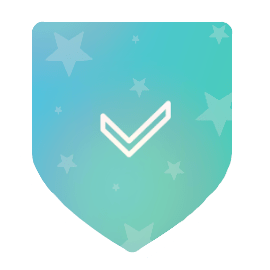
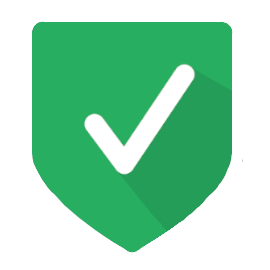
Added second badge. closes #71

diff --git a/resources/ts/user/components/Profile/BadgesSection.vue b/resources/ts/user/components/Profile/BadgesSection.vue
@@ -15,7 +15,12 @@ const badges = ref<BadgesSection[]>([
         tip: 'User verified achievement',
         badge: 'verified',
         show: !!user.email_verified_at,
-    }
+    },
+    {
+        tip: 'User submitted 5 comments',
+        badge: 'commentator',
+        show: user.comments_count! >= 5,
+    },
 ])
 </script>
 
@@ -25,9 +30,8 @@ const badges = ref<BadgesSection[]>([
 
         <div class="flex flex-wrap gap-0.5 mt-3">
             <Badge
-                v-for="badge in badges"
+                v-for="badge in badges.filter(b => b.show)"
                 :key="badge.badge"
-                v-if="user.email_verified_at"
                 :badge="badge.badge"
                 class="w-16"
                 :tip="badge.tip"

diff --git a/resources/ts/shared/types/index.ts b/resources/ts/shared/types/index.ts
@@ -3,7 +3,7 @@ import type { FunctionalComponent, HTMLAttributes, VNodeProps } from 'vue'
 
 export type Component = FunctionalComponent<HTMLAttributes & VNodeProps, {}>
 
-export type Badge = 'verified'
+export type Badge = 'verified' | 'commentator'
 
 export type BadgesSection = {
     tip: string

diff --git a/resources/ts/shared/components/Badge.vue b/resources/ts/shared/components/Badge.vue
@@ -17,7 +17,7 @@ const { badge, tip } = defineProps<Props>()
             :alt="`Badge for ${badge}`"
             width="270"
             height="270"
-            class="drop-shadow-md"
+            class="drop-shadow-md pointer-events-none"
         />
     </Tip>
 </template>

diff --git a/config/app.php b/config/app.php
@@ -14,7 +14,7 @@ return [
     */
 
     'name' => env('APP_NAME', 'Serhii Cho'),
-    'comments_timeout_minutes' => 5,
+    'comments_timeout_minutes' => 1,
 
     /*
     |--------------------------------------------------------------------------
